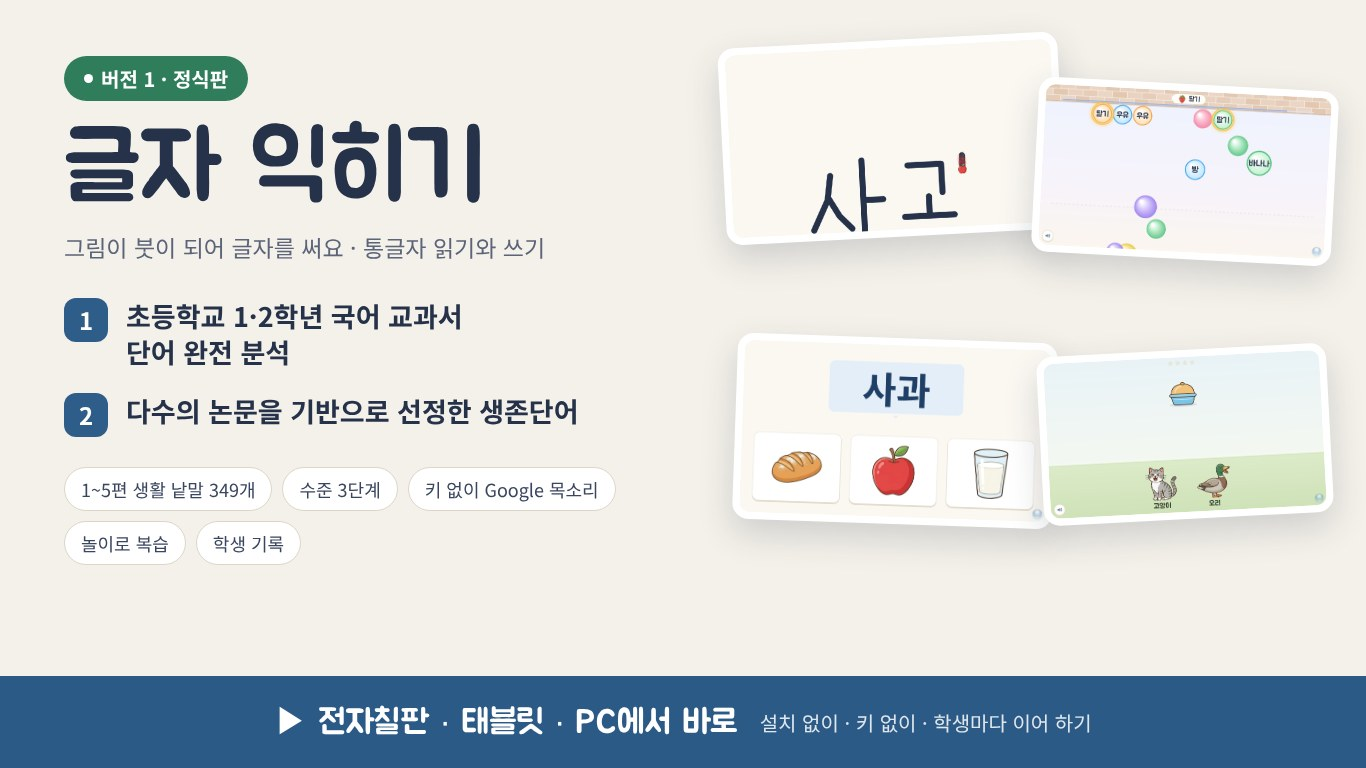
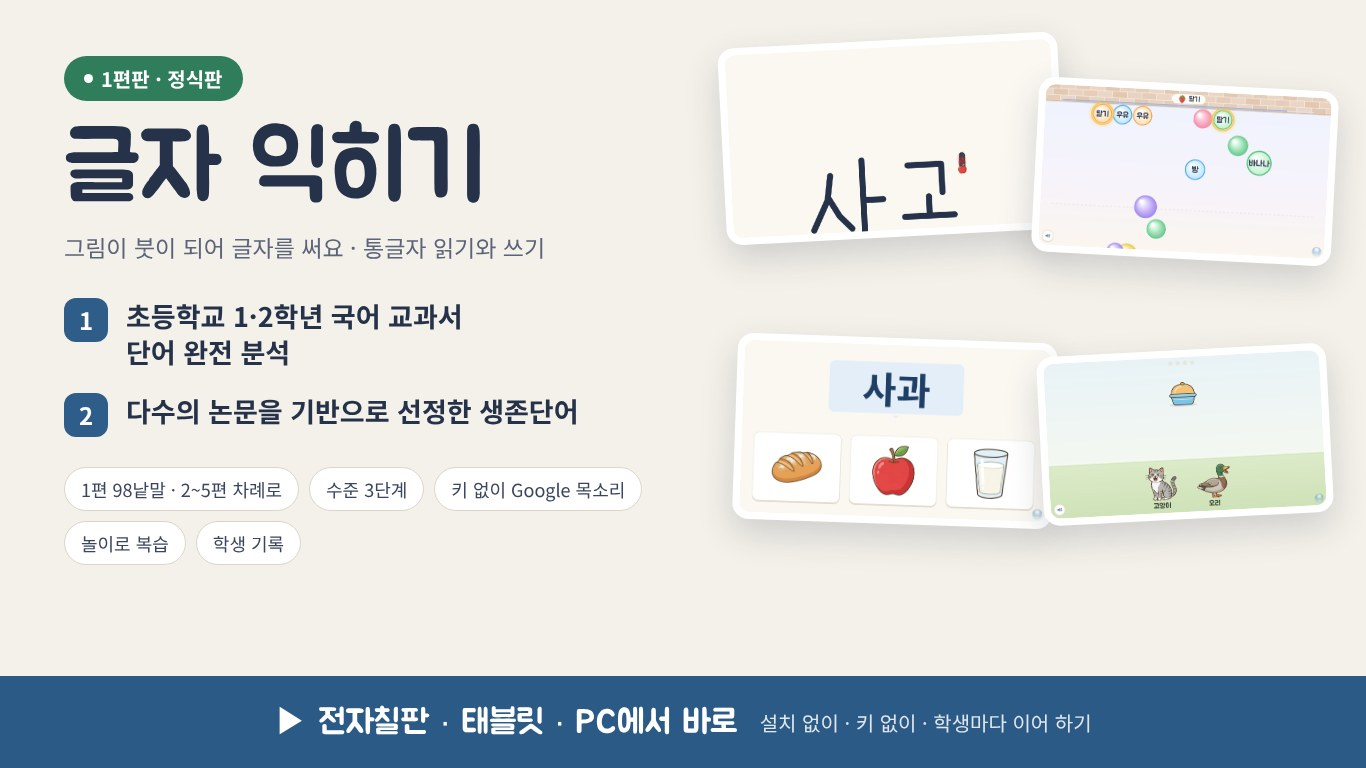
007 1편판: 편 차례 공개(OPEN_BOOKS, 준비 중인 편은 흐리게, ?all=1 미리 보기), 공개 편을 다 마치면 '다음 편은 준비 중' 알림, 설명서·자세한 설명·README·홍보 그림 맞춤
Claude-Session: https://claude.ai/code/session_01CUt13BUndsbco2DGQb7Riu

Changed region(s): [[0.0615, 0.625, 0.4612, 0.6562], [0.0615, 0.0625, 0.1845, 0.125]]

diff --git a/007/word-learn.html b/007/word-learn.html
@@ -385,6 +385,10 @@ details.more>summary .sum{font-weight:400;color:var(--soft);font-size:14px;margi
 .startbar.one{position:static;margin:0 0 20px}
 .rosterpanel{margin:10px 0 4px;padding:12px 14px;border:1px dashed var(--line);border-radius:14px;background:#FBFAF7}
 .rosterpanel .addline{display:flex;gap:6px;flex-wrap:wrap;align-items:center}
+/* 편 차례 공개 */
+#bookSeg button.closed{opacity:.45;cursor:default;background:#F1EEE8}
+#bookSeg button.closed .soon{font-size:.78em;color:#8A7F6E;margin-left:2px}
+.setup-head .edition{font-size:13px;font-weight:700;color:#fff;background:#2F7D5B;border-radius:999px;padding:2px 10px;align-self:center;white-space:nowrap}
 
 body.tmode #stage,body.tmode #game{pointer-events:none}
 .tbar button.cur{border-color:#9FF3F5;border-style:dashed}
@@ -401,7 +405,7 @@ body.tmode #stage,body.tmode #game{pointer-events:none}
 <!-- ================= 설정 화면 ================= -->
 <div id="setup">
  <div class="setup-wrap one">
-  <div class="setup-head"><h1>글자 익히기</h1><span class="sub">그림이 붓이 되어 글자를 써요</span>
+  <div class="setup-head"><h1>글자 익히기</h1><span class="edition" id="edition"></span><span class="sub">그림이 붓이 되어 글자를 써요</span>
    <span style="margin-left:auto;display:flex;gap:6px"><button class="btn mini" id="recBtn">교사용 기록</button><button class="btn mini" id="setupHelp">도움말</button></span></div>
   <div id="pauseBar" class="hidden"><span id="pauseTxt"></span><button class="btn main" id="resumeBtn">이어 하기</button><button class="btn" id="quitBtn">멈춘 곳 지우기</button></div>
 
@@ -436,6 +440,7 @@ body.tmode #stage,body.tmode #game{pointer-events:none}
     <div class="row">
      <label class="t">편</label>
      <div class="seg" id="bookSeg"><button data-v="1">1편 나와 우리 집</button><button data-v="2">2편 안전하게</button><button data-v="3">3편 학교에서</button><button data-v="4">4편 마을에서</button><button data-v="5">5편 일터에서</button><button data-v="6">내가 넣은 낱말</button></div>
+     <div class="note" id="bookNote"></div>
     </div>
     <div class="row" id="madangRow"><label class="t">마당</label><div class="mchips" id="madangChips"></div></div>
     <div class="row">
@@ -1123,7 +1128,13 @@ const LEVELS = {
   2: { size: 6, n: 3, steps: [1, 2, 3, 4, 5], write: 'trace', name: '2 글자 알아보기' },
   3: { size: 10, n: 4, steps: [3, 4, 5], write: 'copy', name: '3 읽기' }
 };
-const BOOK_WORDS = BOOK.flatMap(x => x.w);
+const OPEN_BOOKS = [1];   /* 공개한 편: 1편판 → [1], 1_2편판 → [1, 2] … */
+const ALL_OPEN = /[?&]all=1\b/.test(location.search);   /* 만든 사람 미리 보기 */
+const isOpenBook = p => p === 6 || ALL_OPEN || OPEN_BOOKS.includes(p);
+const EDITION = (ALL_OPEN ? [1, 2, 3, 4, 5] : OPEN_BOOKS).join('_') + '편판';
+const BOOK_WORDS = BOOK.filter(x => isOpenBook(x.p)).flatMap(x => x.w);
+const OPEN_WORDS = new Set(BOOK_WORDS);
+const CLOSED_BOOKS = [1, 2, 3, 4, 5].filter(p => !isOpenBook(p));
 const MADANG_OF = new Map(); BOOK.forEach((x, i) => x.w.forEach(w => MADANG_OF.set(w, i)));
 const isPair = (a, b) => PAIRS.some(([x, y]) => (x === a && y === b) || (x === b && y === a));
 /* 묶음 나누기: 끝 묶음이 크기의 반보다 작으면 앞 묶음에 붙임 */
@@ -1149,7 +1160,7 @@ function bundlesOf(mi, lv) {
     const extra = TOPUP[mi] || [];
     for (const x of extra) {
       if (b.length >= size) break;
-      if (b.includes(x) || !PICS[x] || b.some(y => isPair(x, y) || PICS[y] === PICS[x])) continue;
+      if (b.includes(x) || !PICS[x] || !OPEN_WORDS.has(x) || b.some(y => isPair(x, y) || PICS[y] === PICS[x])) continue;
       b.push(x);
     }
     return b;
@@ -1614,7 +1625,7 @@ function setLevel(v) {
 const Resume = {
   all() { return LS.get('resume', {}); },
   key(sid) { return (sid != null ? sid : Rec.recId) || '_'; },
-  get(sid) { const v = this.all()[this.key(sid)]; return v && v.words && v.words.length ? v : null; },
+  get(sid) { const v = this.all()[this.key(sid)]; if (v && v.bundle && BOOK[v.bundle.mi] && !isOpenBook(BOOK[v.bundle.mi].p)) return null; return v && v.words && v.words.length ? v : null; },
   save(o) { const a = this.all(); a[this.key()] = o; LS.set('resume', a); },
   clear(sid) { const a = this.all(); delete a[this.key(sid)]; LS.set('resume', a); }
 };
@@ -1634,14 +1645,14 @@ const Prog = {
   next(lv) {
     const p = this.of(Rec.recId), last = p.last;
     const list = [];
-    BOOK.forEach((x, mi) => bundlesOf(mi, lv).forEach((_, bi) => list.push({ mi, bi })));
+    BOOK.forEach((x, mi) => { if (isOpenBook(x.p)) bundlesOf(mi, lv).forEach((_, bi) => list.push({ mi, bi })); });
     let start = 0;
     if (last) {
       const k = list.findIndex(x => x.mi === last.mi && (last.lv !== lv || x.bi === last.bi));
       if (k >= 0) start = last.lv === lv ? k + 1 : k;
     }
     for (let j = 0; j < list.length; j++) { const x = list[(start + j) % list.length]; if (!p.done[this.key(x.mi, lv, x.bi)]) return x; }
-    return list[start % list.length];
+    return null;   /* 공개된 편을 다 마침: 다음 편은 준비 중(선생님이 복습할 묶음을 고름) */
   }
 };
 
@@ -3832,12 +3843,15 @@ function autoPick() {
 }
 function paintBook() {
   if (S.book === 6 && !S.mine.length) S.book = 1;
+  if (!isOpenBook(S.book)) { S.book = OPEN_BOOKS[0] || 1; const m = madangs(S.book)[0]; S.mi = m ? m.i : 0; S.bi = 0; saveSel(); }
+  { const n = $('#bookNote'); if (n) { const c = CLOSED_BOOKS; n.textContent = c.length ? (c.length > 1 && c[c.length - 1] - c[0] === c.length - 1 ? c[0] + '~' + c[c.length - 1] : c.join('·')) + '편은 확인하고 있어요. 차례로 열려요.' : ''; n.classList.toggle('hidden', !c.length); } }
   $$('#bookSeg button').forEach(b => {
     const v = +b.dataset.v;
     b.classList.toggle('on', v === S.book);
     b.classList.toggle('hidden', v === 6 && !S.mine.length);
     if (!b.dataset.label) b.dataset.label = b.innerHTML;
-    b.innerHTML = b.dataset.label + ' <small style="opacity:.7">' + bookWords(v).length + '</small>';
+    const shut = v !== 6 && !isOpenBook(v); b.classList.toggle('closed', shut); b.disabled = shut;
+    b.innerHTML = b.dataset.label + (shut ? ' <small class="soon">준비 중</small>' : ' <small style="opacity:.7">' + bookWords(v).length + '</small>');
   });
   paintSeg('#modeSeg', 'mode');
   $('#bundleBox').classList.toggle('hidden', S.mode !== 'bundle');
@@ -3932,7 +3946,7 @@ function paintResume() {
   else if (S.mode === 'free') title = (S.book === 6 ? '내가 넣은 낱말' : S.book + '편 ' + PNAMES[S.book] + (S.mAll ? '' : ' · ' + madang(S.mi).mn)) + ' · 직접 고르기';
   else title = (S.book === 6 ? '내가 넣은 낱말' : S.book + '편' + (S.mAll ? '' : ' · ' + madang(S.mi).mn)) + ' · ' + (S.mode === 'cons' ? S.jcons + '(으)로 시작하는 낱말' : S.jvow + ' 모음이 든 낱말');
   $('#todayTitle').textContent = title;
-  $('#resumeTxt').textContent = last ? `지난번: ${BOOK[last.mi].mn} 묶음 ${last.bi + 1} · 수준 ${lv}에서 마친 묶음 ${n}개` : '아직 마친 묶음이 없어요';
+  $('#resumeTxt').textContent = (S.mode === 'bundle' && !Prog.next(lv)) ? `${OPEN_BOOKS.join('·')}편을 다 마쳤어요. 다음 편은 준비 중이에요. 복습할 묶음을 골라 주세요.` : last ? `지난번: ${BOOK[last.mi].mn} 묶음 ${last.bi + 1} · 수준 ${lv}에서 마친 묶음 ${n}개` : '아직 마친 묶음이 없어요';
   $('#resumeRow').classList.toggle('hidden', S.mode !== 'bundle');
 }
 /* 누구와 하나요: 학생을 누르면 그 학생으로 기록 시작, "연습"은 기록 안 함 */
@@ -4158,5 +4172,6 @@ window.AdminGate = (function () {
 })();
 </script>
 <script>try { showPauseBar(); } catch (e) {}</script>
+<script>try { document.getElementById('edition').textContent = EDITION; } catch (e) {}</script>
 </body>
 </html>

diff --git a/007/word-learn_guide.html b/007/word-learn_guide.html
@@ -7,11 +7,12 @@
 <div style="max-width:860px;margin:0 auto;background:#fff;border-radius:16px;padding:24px 22px;font-family:'Noto Sans KR',sans-serif;color:#26324A;line-height:1.7;font-size:16px;">
 
 <h2 style="font-size:24px;margin:0 0 6px;color:#2C3E5C;">글자 익히기 · 자세한 설명 <span style="font-size:15px;color:#6B7487;font-weight:400;">버전 1</span></h2>
-<p style="margin:0 0 18px;color:#6B7487;">생활 낱말 통글자 읽기·쓰기 · 듣기 약 1.5~6세 수준 · 조금 다룰 수 있는 학생은 혼자, 아니면 선생님과 함께</p>
+<p style="margin:0 0 18px;color:#6B7487;">1편판 · 생활 낱말 통글자 읽기·쓰기 · 듣기 약 1.5~6세 수준 · 조금 다룰 수 있는 학생은 혼자, 아니면 선생님과 함께</p>
 
+<div style="background:#FFF6DC;border:1px solid #EED48A;border-radius:12px;padding:12px 16px;margin:0 0 14px;color:#5A4300;font-size:15px;line-height:1.7;">글자 익히기는 지금 <b>1편판</b>이에요. 낱말·그림·소리를 한 편씩 더 꼼꼼히 확인하고 보강해서 차례로 열어요(1편판 → 1_2편판 → 1_2_3편판 …). 2~5편에서 쓰던 기록은 그대로 남아 있어요. 그 편이 다시 열리면 이어서 볼 수 있어요. 써 보시고 고칠 점을 알려 주시면 다음 판에 넣을게요.</div>
 <h3 style="font-size:19px;margin:24px 0 8px;border-left:5px solid #3E7CB1;padding-left:10px;">무엇을 하나요</h3>
 <p style="margin:0;">낱말 하나씩 <b>보기 → 같은 글자 찾기 → 낱말 고르기 → 그림 고르기 → 쓰기</b>를 하고, 묶음을 다 배우면 <b>놀이</b>로 복습해요. 보기에서는 그림이 작아져 <b>붓이 되어</b> 획순대로 글자를 쓰고, 다 쓴 글자는 바른바탕부터 여러 글꼴로 바뀌어요. 틀려도 "틀렸어요"라고 하지 않고 정답이 조용히 빛나요.</p>
-<p style="margin:8px 0 0;">낱말은 <b>생활 낱말 349개</b>예요(1편 나와 우리 집 · 2편 안전하게 · 3편 학교에서 · 4편 마을에서 · 5편 일터에서). 편 안에서 마당(주제)과 묶음으로 나뉘어 있고, 그림과 <b>Google 목소리</b>가 모두 들어 있어 키 없이 바로 쓸 수 있어요.</p>
+<p style="margin:8px 0 0;">낱말은 <b>생활 낱말 349개</b>예요(1편 나와 우리 집 · 2편 안전하게 · 3편 학교에서 · 4편 마을에서 · 5편 일터에서). 지금은 <b>1편(98개)</b>이 열려 있고, 2~5편은 설정 화면에 흐리게 "준비 중"으로 보여요. 편 안에서 마당(주제)과 묶음으로 나뉘어 있고, 그림과 <b>Google 목소리</b>가 모두 들어 있어 키 없이 바로 쓸 수 있어요.</p>
 
 <h3 style="font-size:19px;margin:24px 0 8px;border-left:5px solid #3E7CB1;padding-left:10px;">수업 정하기</h3>
 <img src="https://shim-sung-hyun.github.io/web_app/007/word-learn01.jpg" alt="처음 화면" style="width:100%;border-radius:10px;border:1px solid #e4ded2;">

diff --git a/007/word-learn_manual.html b/007/word-learn_manual.html
@@ -1,5 +1,7 @@
 <div style="max-width:820px;margin:0 auto;font-family:'Noto Sans KR',sans-serif;color:#26324A;line-height:1.6;font-size:16px;">
 
+<div style="background:#FFF6DC;border:1px solid #EED48A;border-radius:12px;padding:12px 16px;margin:0 0 14px;color:#5A4300;font-size:15px;line-height:1.7;">글자 익히기는 지금 <b>1편판</b>이에요. 낱말·그림·소리를 한 편씩 더 꼼꼼히 확인하고 보강해서 차례로 열어요(1편판 → 1_2편판 → 1_2_3편판 …). 2~5편에서 쓰던 기록은 그대로 남아 있어요. 그 편이 다시 열리면 이어서 볼 수 있어요. 써 보시고 고칠 점을 알려 주시면 다음 판에 넣을게요.</div>
+
 <p style="margin:0 0 14px;"><img src="https://shim-sung-hyun.github.io/web_app/007/word-learn-promo.jpg" alt="글자 익히기 버전 1" style="width:100%;border-radius:14px;display:block;"></p>
 
 <p style="text-align:center;margin:0 0 22px;"><a href="https://shim-sung-hyun.github.io/web_app/007/word-learn.html" target="_blank" style="display:inline-block;background:#2F5D8A;color:#fff;font-weight:700;font-size:21px;padding:14px 40px;border-radius:14px;text-decoration:none;">▶ 바로 열기</a></p>
